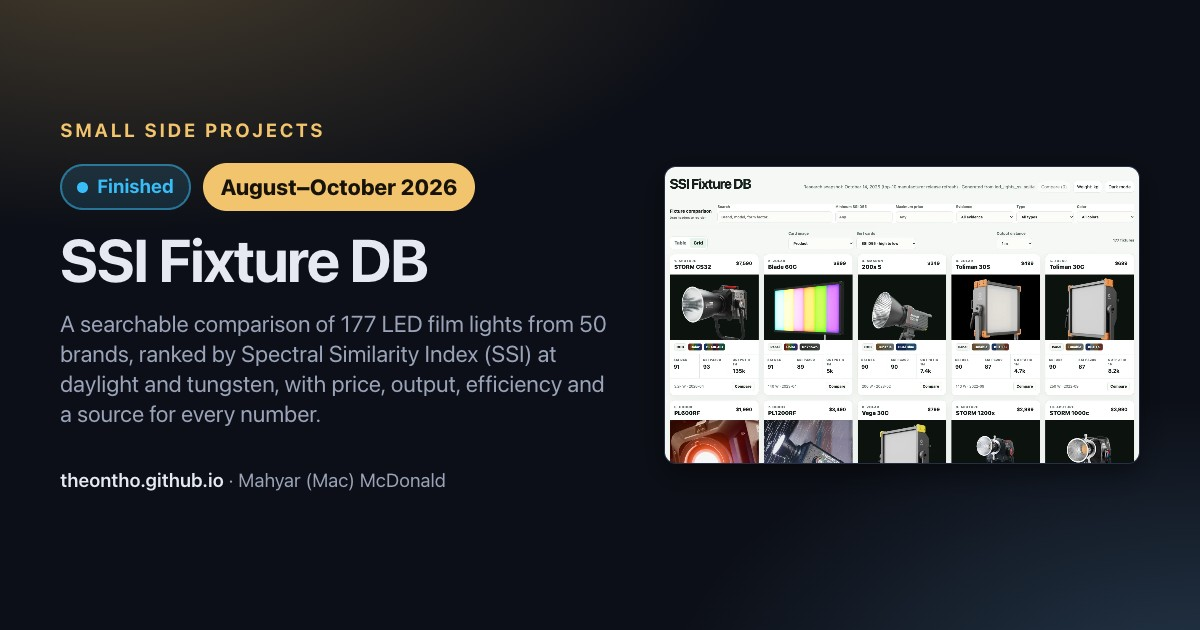
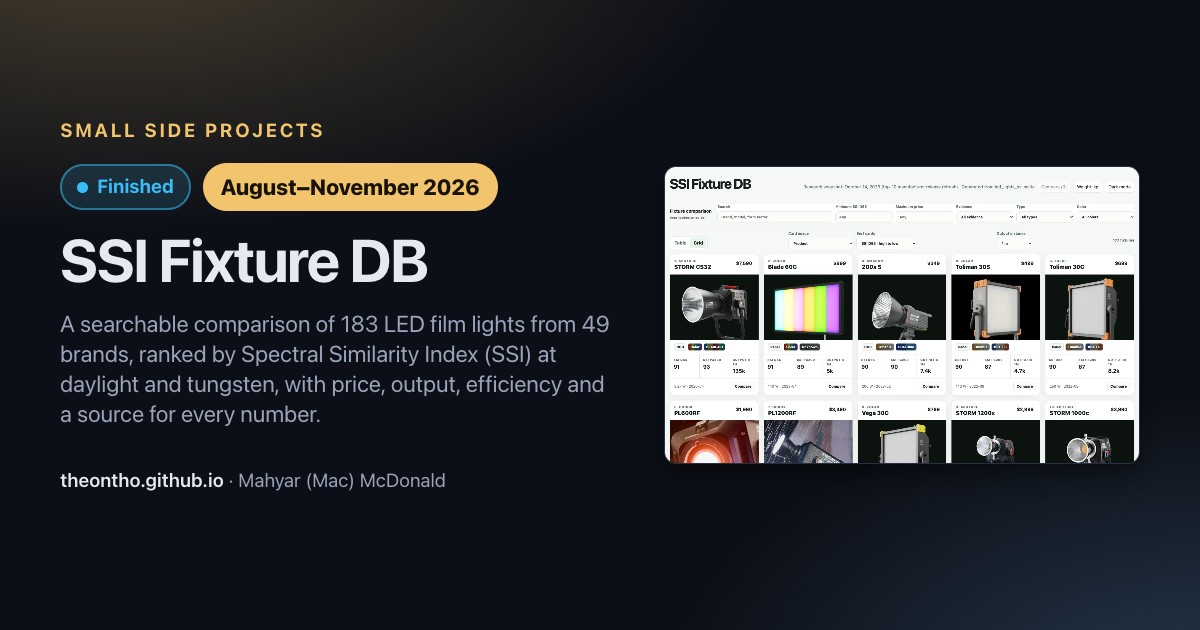
SSI Fixture DB: November refresh counts
Copilot-Session: 788f56bb-e73a-4415-b173-0a07bef9067e

Changed region(s): [[0.2775, 0.4825, 0.5242, 0.5429], [0.2467, 0.2413, 0.4317, 0.3317]]

diff --git a/p/ssi-lights/index.html b/p/ssi-lights/index.html
@@ -5,23 +5,23 @@
   <!-- Generated by scripts/social_previews.py from data/projects.json; edit that, not this file. -->
   <meta name="viewport" content="width=device-width, initial-scale=1">
   <title>SSI Fixture DB · Mahyar (Mac) McDonald</title>
-  <meta name="description" content="A searchable comparison of 177 LED film lights from 50 brands, ranked by Spectral Similarity Index (SSI) at daylight and tungsten, with price, output, efficiency and a source for every number.">
+  <meta name="description" content="A searchable comparison of 183 LED film lights from 49 brands, ranked by Spectral Similarity Index (SSI) at daylight and tungsten, with price, output, efficiency and a source for every number.">
   <meta name="robots" content="noindex">
   <meta property="og:type" content="website">
   <meta property="og:site_name" content="Mahyar (Mac) McDonald">
   <meta property="og:url" content="https://theontho.github.io/p/ssi-lights/">
   <meta property="og:title" content="SSI Fixture DB">
-  <meta property="og:description" content="A searchable comparison of 177 LED film lights from 50 brands, ranked by Spectral Similarity Index (SSI) at daylight and tungsten, with price, output, efficiency and a source for every number.">
+  <meta property="og:description" content="A searchable comparison of 183 LED film lights from 49 brands, ranked by Spectral Similarity Index (SSI) at daylight and tungsten, with price, output, efficiency and a source for every number.">
   <meta property="og:image" content="https://theontho.github.io/assets/social/projects/ssi-lights.jpg">
   <meta property="og:image:type" content="image/jpeg">
   <meta property="og:image:width" content="1200">
   <meta property="og:image:height" content="630">
-  <meta property="og:image:alt" content="SSI Fixture DB: A searchable comparison of 177 LED film lights from 50 brands, ranked by Spectral Similarity Index (SSI) at daylight and tungsten, with price, output, efficiency and a source for every number.">
+  <meta property="og:image:alt" content="SSI Fixture DB: A searchable comparison of 183 LED film lights from 49 brands, ranked by Spectral Similarity Index (SSI) at daylight and tungsten, with price, output, efficiency and a source for every number.">
   <meta name="twitter:card" content="summary_large_image">
   <meta name="twitter:title" content="SSI Fixture DB">
-  <meta name="twitter:description" content="A searchable comparison of 177 LED film lights from 50 brands, ranked by Spectral Similarity Index (SSI) at daylight and tungsten, with price, output, efficiency and a source for every number.">
+  <meta name="twitter:description" content="A searchable comparison of 183 LED film lights from 49 brands, ranked by Spectral Similarity Index (SSI) at daylight and tungsten, with price, output, efficiency and a source for every number.">
   <meta name="twitter:image" content="https://theontho.github.io/assets/social/projects/ssi-lights.jpg">
-  <meta name="twitter:image:alt" content="SSI Fixture DB: A searchable comparison of 177 LED film lights from 50 brands, ranked by Spectral Similarity Index (SSI) at daylight and tungsten, with price, output, efficiency and a source for every number.">
+  <meta name="twitter:image:alt" content="SSI Fixture DB: A searchable comparison of 183 LED film lights from 49 brands, ranked by Spectral Similarity Index (SSI) at daylight and tungsten, with price, output, efficiency and a source for every number.">
   <meta name="color-scheme" content="dark light">
   <link rel="icon" href="../../assets/favicon.svg" type="image/svg+xml">
   <link rel="stylesheet" href="../../assets/site.css">
@@ -32,7 +32,7 @@
     <div class="wrap">
       <p class="eyebrow"><a href="../../">Project showcase</a></p>
       <h1>SSI Fixture DB</h1>
-      <p class="tagline">A searchable comparison of 177 LED film lights from 50 brands, ranked by Spectral Similarity Index (SSI) at daylight and tungsten, with price, output, efficiency and a source for every number.</p>
+      <p class="tagline">A searchable comparison of 183 LED film lights from 49 brands, ranked by Spectral Similarity Index (SSI) at daylight and tungsten, with price, output, efficiency and a source for every number.</p>
       <p><a href="../../?project=ssi-lights">Open SSI Fixture DB in the project showcase →</a></p>
     </div>
   </header>
